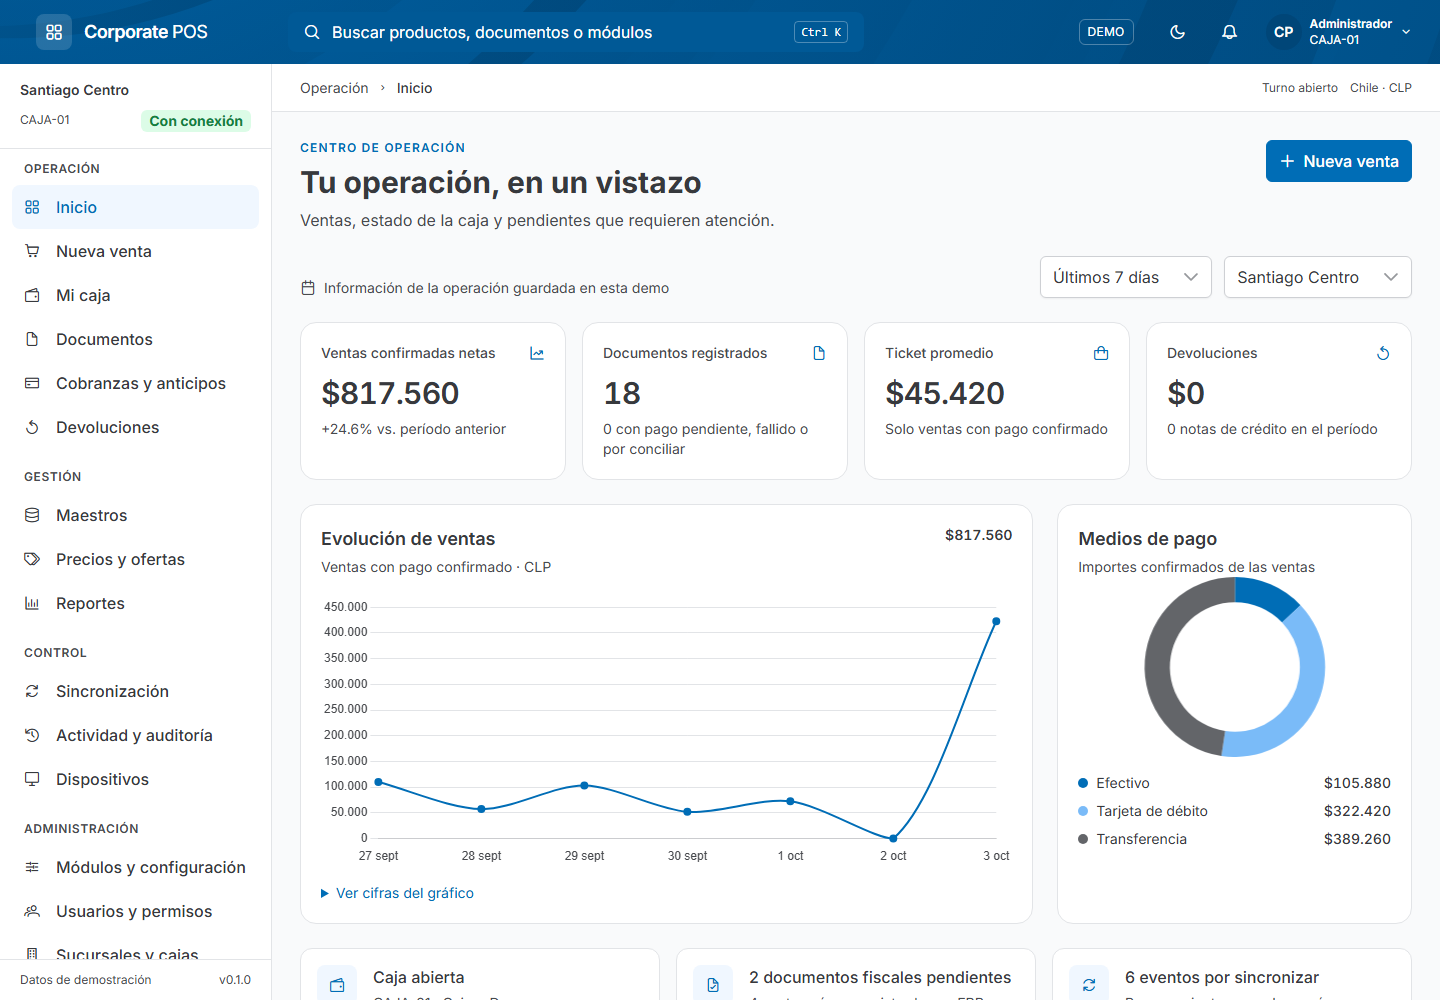
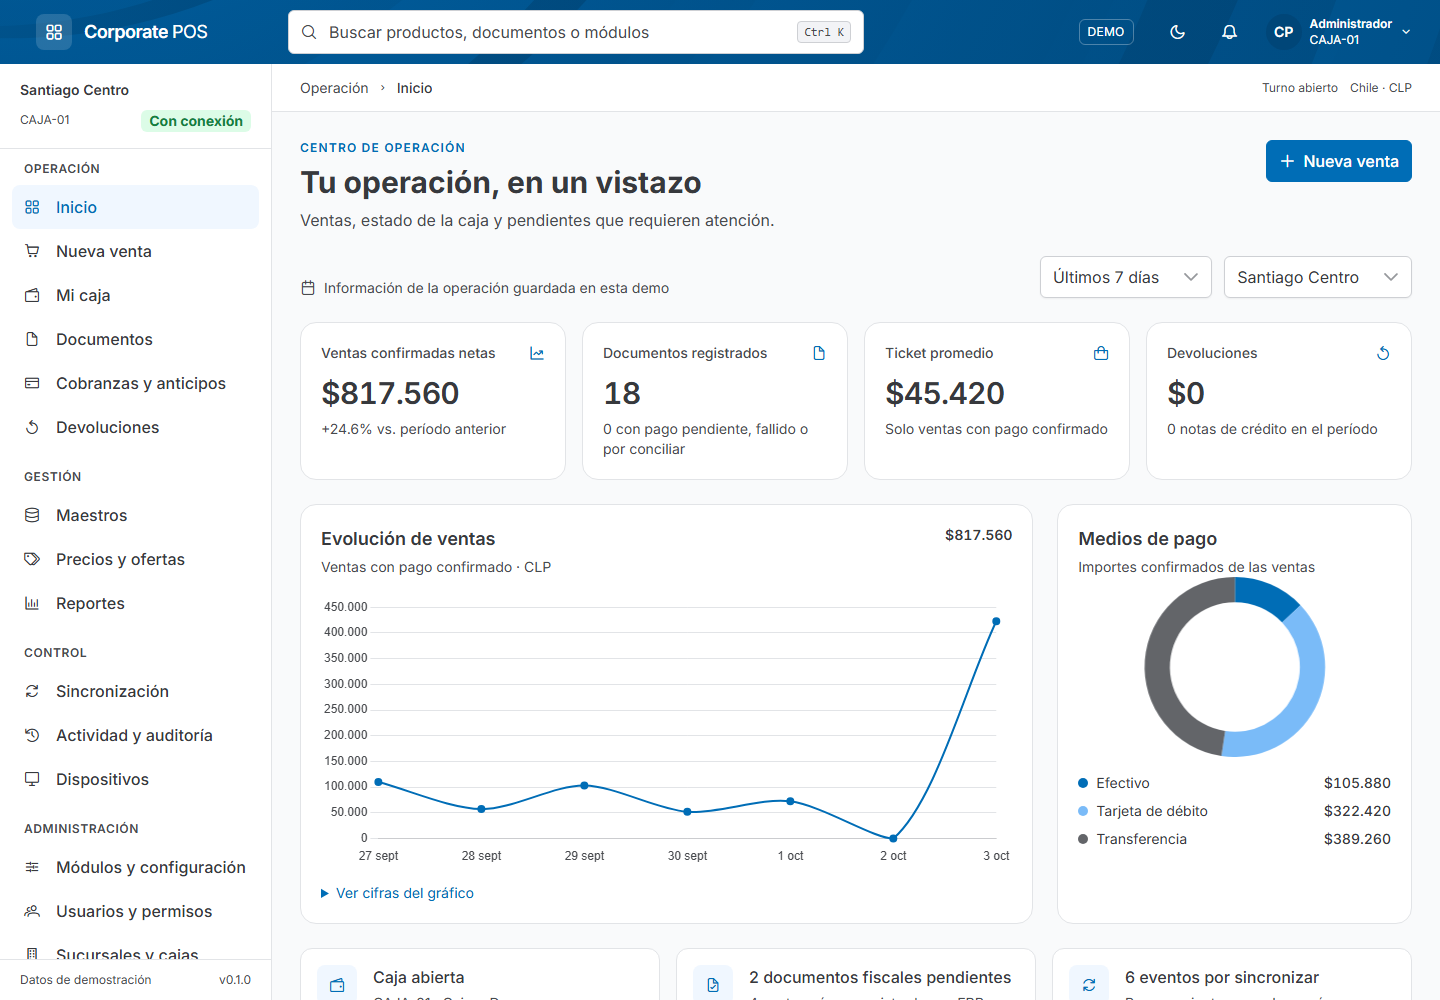
fix(ui): match header search to showcase white field

Changed region(s): [[0.1875, 0.0, 0.625, 0.062]]

diff --git a/apps/pos-web/src/app/shell/shell.component.html b/apps/pos-web/src/app/shell/shell.component.html
@@ -29,13 +29,18 @@
     </a>
     <button
       type="button"
-      class="hidden md:flex items-center gap-3 h-10 rounded-lg bg-primary-600 hover:bg-primary-700 px-4 text-sm min-w-0 flex-1 max-w-xl cursor-pointer"
+      class="hidden md:flex items-center gap-3 h-11 rounded-md border border-surface-300 hover:border-surface-400 bg-surface-0 text-surface-600 px-3 text-base min-w-0 flex-1 max-w-xl cursor-pointer"
       (click)="openSearch()"
       aria-label="Buscar en la caja, Control K"
+      aria-haspopup="dialog"
+      [attr.aria-expanded]="searchOpen()"
     >
       <i class="pi pi-search" aria-hidden="true"></i
       ><span class="truncate text-left flex-1">Buscar productos, documentos o módulos</span
-      ><kbd class="text-xs border border-white/30 rounded px-1.5 py-0.5">Ctrl K</kbd>
+      ><kbd
+        class="shrink-0 text-xs text-surface-600 bg-surface-100 border border-surface-300 rounded px-1.5 py-0.5"
+        >Ctrl K</kbd
+      >
     </button>
     <span class="flex-1 md:hidden"></span>
     <span class="hidden lg:block ml-auto border border-white/30 rounded-md px-2 py-1 text-xs tracking-wide"
